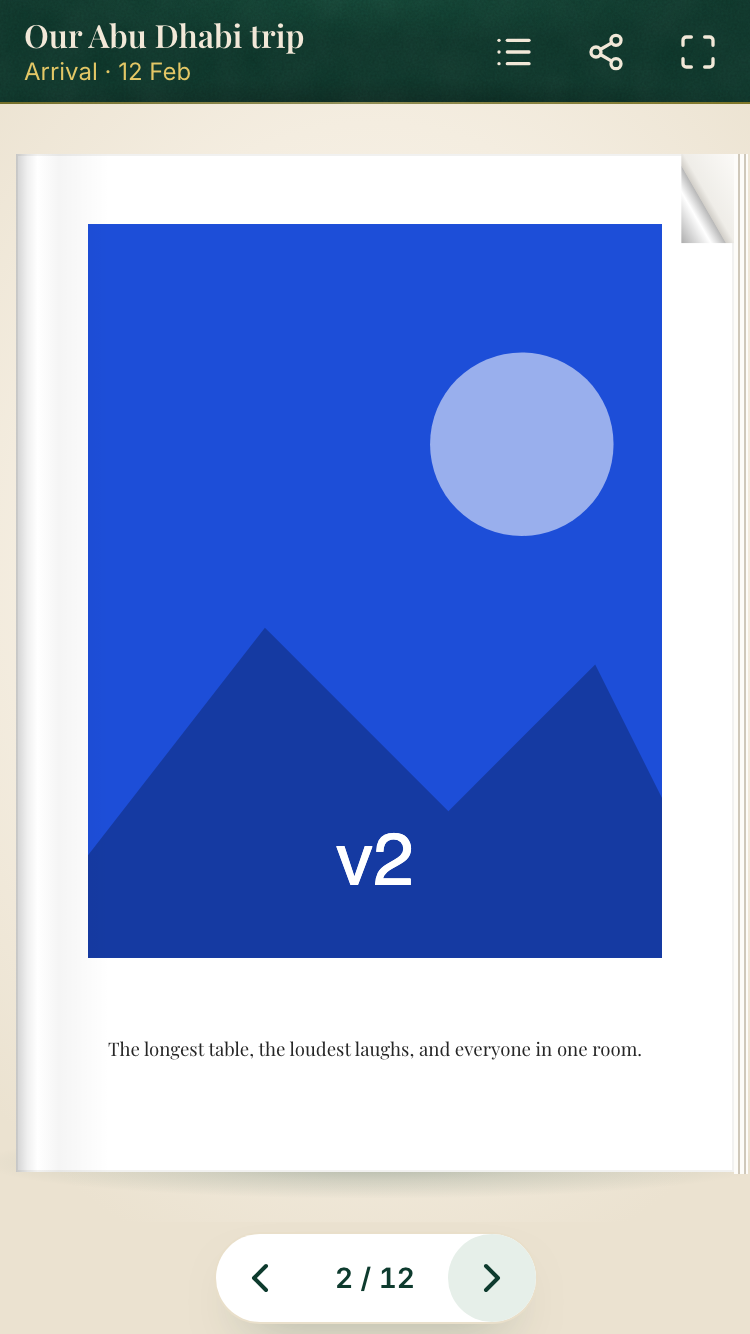
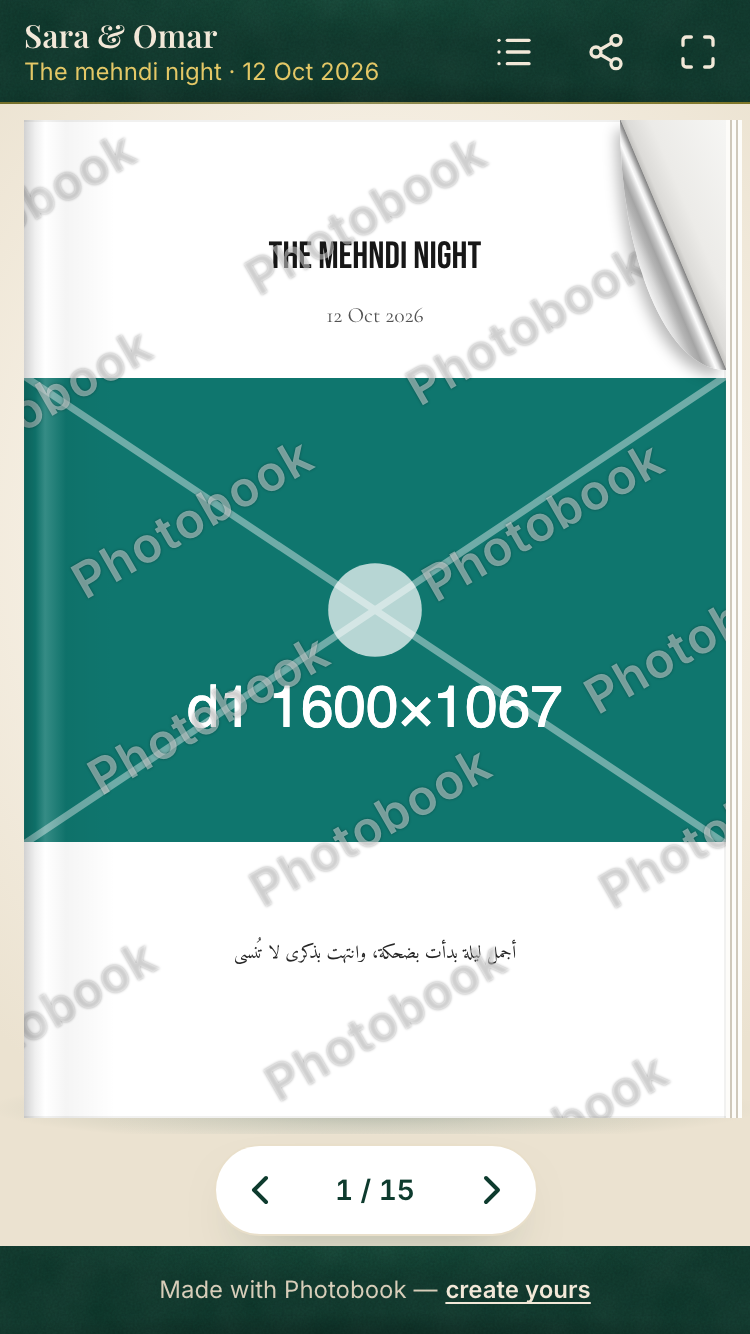
M27: hairline only on outer page edges (no fold seam), rolled silver corner curl like the reference; checkpoint

diff --git a/src/components/viewer/viewer-motion.css b/src/components/viewer/viewer-motion.css
@@ -101,7 +101,21 @@
   inset: 0;
   z-index: 20;
   pointer-events: none;
-  box-shadow: inset 0 0 0 1px rgb(60 50 40 / 0.07);
+  --vw-hair: rgb(60 50 40 / 0.07);
+  /* Hairline on the outer edges only (top, bottom, outer side) — never on the fold / spine side,
+     where a 1 px line would read as a seam between the two pages (m10b fold-seam check). Right
+     pages, cover alone and phone pages: outer side is the right; left pages and back: the left. */
+  box-shadow:
+    inset 0 1px 0 var(--vw-hair),
+    inset 0 -1px 0 var(--vw-hair),
+    inset -1px 0 0 var(--vw-hair);
+}
+.vw-paper[data-paper="left"],
+.vw-paper[data-paper="back"] {
+  box-shadow:
+    inset 0 1px 0 var(--vw-hair),
+    inset 0 -1px 0 var(--vw-hair),
+    inset 1px 0 0 var(--vw-hair);
 }
 
 /* Left page of a spread: deep fold shadow on its right edge, fading over ~30 %. */
@@ -155,10 +169,14 @@
   --vw-hinge: to left;
 }
 
-/* Corner curl at the top-right (right pages, cover, phone pages; never the last page). The square
-   (taller than wide, like a peel down the edge) is split on its diagonal ("to bottom left" puts the
-   50 % line through the other two corners): the top-right half shows the paper beneath, the
-   bottom-left half is the curled-over flap (silver gradient across it). drop-shadow falls from the flap's free edges.
+/* Corner curl at the top-right (right pages, cover, phone pages; never the last page): a rolled
+   page corner, ~15 % of the page wide and ~25 % tall (px-clamped). The box's bottom-left corner is
+   rounded with radii = its own size, so it is a quarter ellipse round the page corner. Its
+   diagonal ("to bottom left" puts the 50 % line through the other two corners) is the fold: above
+   it (0–50 %) the next sheet shows, a little greyer than the page; below it (50 % to the arc,
+   ~71 %) the curled-over flap, shaded like a cylinder (dark inner fold, highlight ridge, mid
+   grey, lighter free edge). The box-shadow follows the rounded edge: the soft shadow the flap
+   casts on the page beside it (the page's overflow clips it at the top and right edges).
    Only while the book rests: page-flip drops .--simple from a page it draws turning (or folding on
    hover) and hides off-screen pages with "display: none", so a shown page without .--simple means
    a turn is in progress — then every hint hides and never doubles the real curl. No combinator at
@@ -166,20 +184,28 @@
 .vw-paper[data-curl]::after {
   content: "";
   position: absolute;
-  inset: 0 0 auto auto;
-  width: clamp(18px, 8.5%, 52px);
-  aspect-ratio: 1 / 1.7;
+  top: 0;
+  right: 0;
+  width: clamp(26px, 15%, 104px);
+  height: clamp(44px, 25%, 180px);
+  border-bottom-left-radius: 100%;
   background: linear-gradient(
     to bottom left,
-    #fbfaf7 0%,
-    #efede8 42%,
-    #d2cfc9 49.3%,
-    #b9b9b9 50%,
-    #fff 62%,
-    #a9a9a9 88%,
-    #ddd 100%
+    #f6f6f4 0%,
+    #ecebe8 36%,
+    #dcdbd8 47%,
+    #c4c3c0 49.6%,
+    #858585 50%,
+    #a9a9a9 51.2%,
+    #e9e9e9 53%,
+    #fdfdfd 54.4%,
+    #c9c9c9 57%,
+    #a4a4a4 60%,
+    #b4b4b4 63%,
+    #dadada 67%,
+    #f4f4f4 71%
   );
-  filter: drop-shadow(-2px 2px 2px rgb(0 0 0 / 0.25));
+  box-shadow: -3px 4px 7px -1px rgb(0 0 0 / 0.28);
 }
 .stf__block:has(.stf__item[style*="display: block"]:not(.--simple)) .vw-paper::after {
   visibility: hidden;

diff --git a/tests/m27-book-realism.test.tsx b/tests/m27-book-realism.test.tsx
@@ -105,6 +105,43 @@ describe("paper CSS (viewer-motion.css)", () => {
     expect(css).toMatch(/\n\.vw-paper\[data-paper="back"\]\s*\{\s*--vw-hinge:\s*to left;\s*\}/);
   });
 
+  it("hairline on the outer edges only — never on the fold / spine side (m10b fold seam)", () => {
+    const shadows = (body: string) => (body.match(/box-shadow:([^;]*);/)?.[1] ?? "").split(",").map((s) => s.trim());
+    // Right page, cover alone, phone page: top, bottom, right (inset -1px 0 = right edge).
+    const outerRight = shadows(rule(/\.vw-paper\[data-paper\]/));
+    expect(outerRight).toEqual(["inset 0 1px 0 var(--vw-hair)", "inset 0 -1px 0 var(--vw-hair)", "inset -1px 0 0 var(--vw-hair)"]);
+    // Left page and back alone: top, bottom, left.
+    const outerLeft = shadows(rule(/\.vw-paper\[data-paper="left"\],\s*\.vw-paper\[data-paper="back"\]/));
+    expect(outerLeft).toEqual(["inset 0 1px 0 var(--vw-hair)", "inset 0 -1px 0 var(--vw-hair)", "inset 1px 0 0 var(--vw-hair)"]);
+    // No all-round ring left anywhere, and no other rule redraws a side.
+    expect(css).not.toMatch(/inset 0 0 0 1px/);
+    const withShadow = [...css.matchAll(/([^{}]*)\{[^}]*box-shadow:[^}]*inset[^}]*\}/g)].map((m) => m[1].trim());
+    expect(withShadow).toEqual(['.vw-paper[data-paper]', '.vw-paper[data-paper="left"],\n.vw-paper[data-paper="back"]']);
+  });
+
+  it("curl is a rolled corner: ~15 % wide, ~25 % tall (px-clamped), quarter-ellipse, cylinder shading, cast shadow", () => {
+    const curl = [...css.matchAll(/\n\.vw-paper\[data-curl\]::after\s*\{([^}]*)\}/g)].map((m) => m[1]).join("\n"); // the static rule
+    expect(curl).toMatch(/content:\s*""/);
+    expect(curl).toMatch(/top:\s*0;/);
+    expect(curl).toMatch(/right:\s*0;/);
+    expect(curl).toMatch(/width:\s*clamp\(26px, 15%, 104px\)/);
+    expect(curl).toMatch(/height:\s*clamp\(44px, 25%, 180px\)/);
+    expect(curl).toMatch(/border-bottom-left-radius:\s*100%/);
+    const stops = curl.match(/#[0-9a-f]{3,6} \d+(\.\d+)?%/g) ?? [];
+    expect(stops.length).toBeGreaterThanOrEqual(10); // revealed sheet + several cylinder stops
+    expect(curl).toMatch(/linear-gradient\(\s*to bottom left/);
+    expect(curl).toMatch(/box-shadow:\s*-\d+px \d+px \d+px/); // soft shadow cast down-left onto the page
+    // Sizes on real pages: 1280 spread page, 375 phone page, A5 landscape page — corner only.
+    const px = (pct: number, min: number, max: number, of: number) => Math.min(max, Math.max(min, (of * pct) / 100));
+    for (const [w, h] of [[465, 660], [359, 510], [625, 440], [160, 227]]) {
+      const cw = px(15, 26, 104, w);
+      const ch = px(25, 44, 180, h);
+      expect(cw / w).toBeLessThanOrEqual(0.17);
+      expect(ch / h).toBeLessThanOrEqual(0.26);
+      expect(cw).toBeGreaterThanOrEqual(26);
+    }
+  });
+
   it("curl hint hides while page-flip draws a turn", () => {
     expect(css).toMatch(/\.stf__block:has\(\.stf__item[^)]*:not\(\.--simple\)\) \.vw-paper::after\s*\{\s*visibility:\s*hidden/);
     // A leading combinator in :has() is mangled by the production minifier into a hide-all rule.

diff --git a/.agentos/runs/m27.md b/.agentos/runs/m27.md
@@ -8,3 +8,9 @@ Branch m27-book-realism off main d344cb7. User request 2026-11-16: "redesign the
 ## Review — reviewer — APPROVED (0 blockers)
 - Scope only the book look; page-flip interplay safe (real DOM nodes, clones carry overlay, curl hides via :not(.--simple) and survives lightningcss minify); paper.ts sides correct; edges div hydration-safe.
 - SHOULD-FIX applied by orchestrator: vw-peel fill mode both → backwards (final clip-path was clipping the flap's drop shadow for motion users); comment says it replays per flip. NITs left: ready flag on mode switch (cosmetic), pre-init overlay flash, brittle source asserts.
+
+## Test — tester — PASS except fold seam (fixed)
+- npm test 7972; goldens/print/pdf-render-live pass; viewer 14, publish 17, m11 18 (dev); m21-share 8, m10c 7 (prod); flips (click, corner drag, swipe incl. on curl), mid-flip, cover/last alone, landscape, Arabic, watermark, box size identical to main, reduced motion, axe 0; /b +1,009 B.
+- BUG: all-round hairline drew a 1px line on the fold → m10b-viewer seam tests failed. Curl read as a small flat dog-ear vs reference rolled peel.
+## Follow-up — frontend-builder — done
+- Hairline on outer edges only per side (no fold/spine line); curl = rolled silver quarter-ellipse (15% width / 25% height, clamped), 13-stop shading, cast shadow; peel backwards. m10b-viewer 6/6; npm test 7968; prod CSS intact; /b +1,076 B gz.

diff --git a/.agentos/memory/lessons.md b/.agentos/memory/lessons.md
@@ -165,3 +165,4 @@ Things that went wrong or surprised us, so no agent repeats them. Format: `- (YY
 - (M25) Hosted Supabase sends 8-digit email OTPs — never hard-code a code length; check generateLink().properties.email_otp.length. When a server normalizer accepts separators, the input's pattern/maxLength must too (test formatted input in a real browser). Test the code step without email via a scratch build pointed at a pass-through proxy stubbing POST /auth/v1/otp.
 - (M25) A commit pushed to its branch first gets a PREVIEW 'Vercel – photobook-app' success status with the same SHA — that is not production. After FF to main, confirm production by a page marker unique to the change (e.g. a new testid in live HTML), not the commit status alone.
 - (M26) Payment specs clean stripe_events via supabase db query --linked from the scratch dir — copy supabase/.temp into git-archive scratch copies.
+- (M27) Next's prod CSS minifier rewrites :has(> …) with a leading combinator into a bare hide-all rule — verify paint rules in the built CSS. Never put an all-round inset ring on spread pages (fold seam; m10b seam gate) — outer edges only. Animation fill `both` keeps the final clip-path and clips drop-shadows — use `backwards`. Dev-fixture viewer specs run on next dev, live ones on next start.

diff --git a/docs/PLAN.md b/docs/PLAN.md
@@ -256,6 +256,9 @@ Plan: `.agentos/runs/m13.md`, D-070.
 ## Milestone 26 — Upgrade payment screens in the emerald style (2026-11-16)
 - [x] Restyle-only post-checkout screens (D-078): emerald band with book title, confirming seal, paid celebration with benefit cards and gold Publish, calm timeout/failed cards, cancelled notice; payment logic untouched; Stripe-hosted checkout branding via dashboard (#0E3B2E). Report: `.agentos/runs/m26.md`. Deployed 2026-11-16.
 
+## Milestone 27 — Realistic open-book look in the viewer (2026-11-16)
+- [x] Viewer-only book realism from the user's flipbook-design.png: spine shading + highlight, page-block edges (follow progress), outer-edge hairlines, rolled silver corner curl (hides during turns, not on last page), deeper ground shadow; page content, print, size unchanged; /b +1.1 kB. Report: `.agentos/runs/m27.md`.
+
 ## Milestone 10+ — After launch
 - [ ] Printing in the UAE (print-shop partner, print-ready PDF, address checkout, Aramex delivery, `/admin/orders`)
 - [ ] AI "story mode": a short paragraph per chapter (AI-picked backgrounds moved into M10c)

diff --git a/.agentos/memory/progress.md b/.agentos/memory/progress.md
@@ -226,3 +226,6 @@ Format: `## YYYY-MM-DD — Milestone N — status` then 3–6 bullets: what was 
 
 ## 2026-11-16 — Milestone 26 (Upgrade screens in the emerald style) — done + deployed
 - Restyle-only upgrade success/cancel screens (D-078); payments e2e green; reviewer APPROVED. User to set Stripe branding (#0E3B2E brand + accent, pill buttons).
+
+## 2026-11-16 — Milestone 27 (Realistic open-book look) — done, awaiting deploy OK
+- Viewer book realism per user reference; fold seam fixed; tested prod build; reviewer APPROVED.
